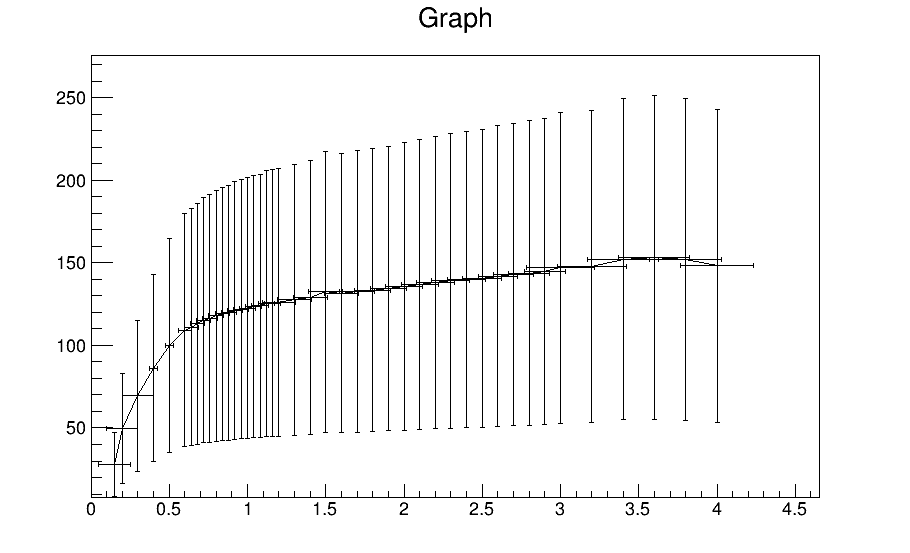
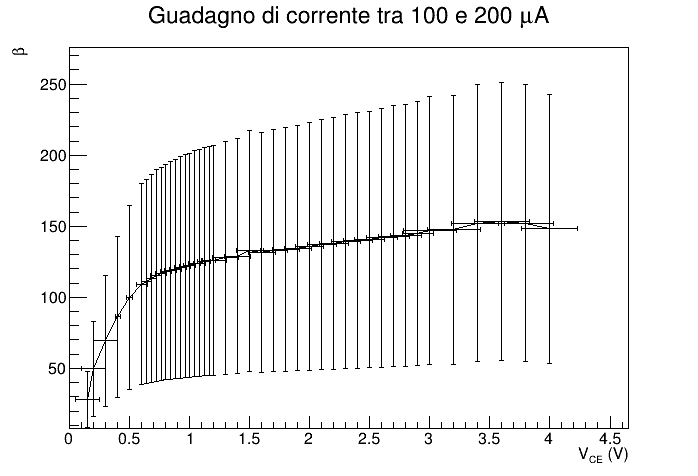
Messo il titolo del grafico del beta. Rimossi dei log inutili

diff --git a/lab2/fit/calc_params.cpp b/lab2/fit/calc_params.cpp
@@ -89,8 +89,6 @@ int main() {
                    const double baseDifferenceErr = err1 + err2;
                    const double baseDifferenceRelErr = baseDifferenceErr / 0.1;
 
-                   std::cout << collectorDifferenceRelErr << "\n"
-                             << baseDifferenceRelErr << "\n\n";
                    const double totalRelErr =
                        collectorDifferenceRelErr + baseDifferenceRelErr;
                    const double totalErr = totalRelErr * data1.Y[i];
@@ -106,7 +104,9 @@ int main() {
             << data1.EY[chosenBetaIndex] << std::endl;
 
   // Creo il grafico dei beta (non che ci serva ma possiamo metterlo)
-  const TGraphErrors graph{static_cast<Int_t>(data1.X.size()), data1.X.data(),
+  TGraphErrors graph{static_cast<Int_t>(data1.X.size()), data1.X.data(),
                            data1.Y.data(), data1.EX.data(), data1.EY.data()};
+
+  graph.SetTitle("Guadagno di corrente tra 100 e 200 #muA;V_{CE} (V);#beta");
   graph.SaveAs("graph.root");
 }
